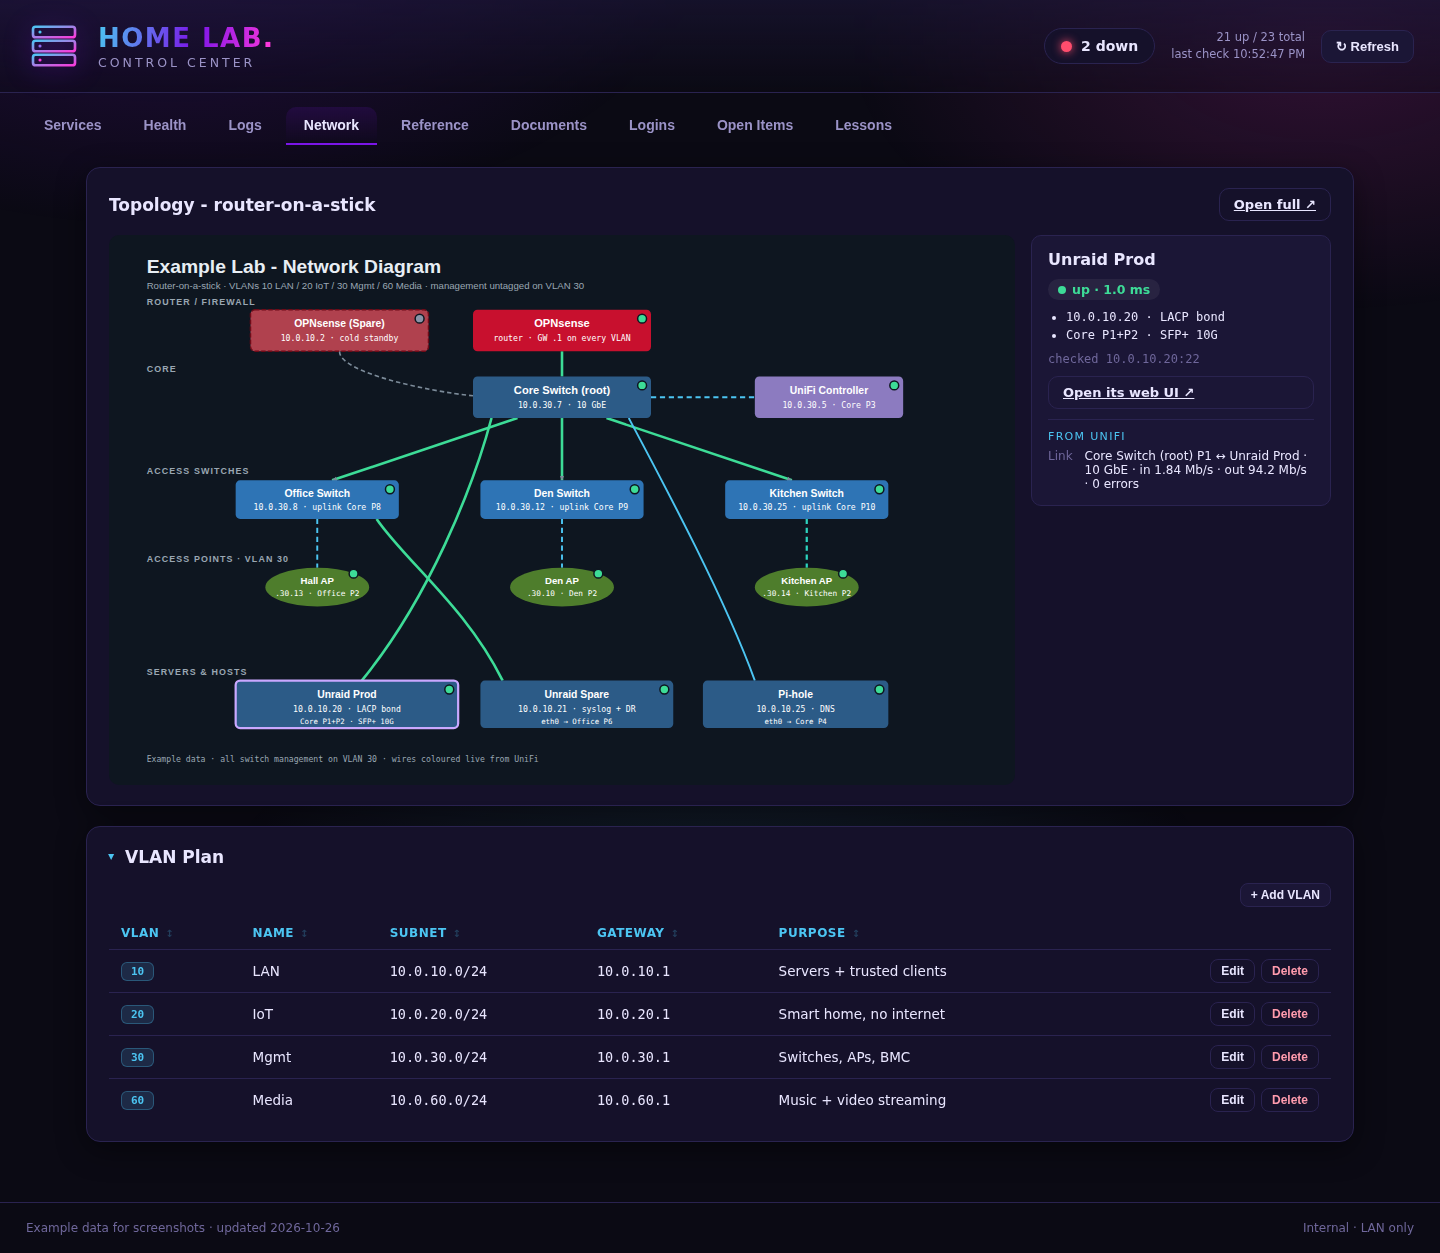
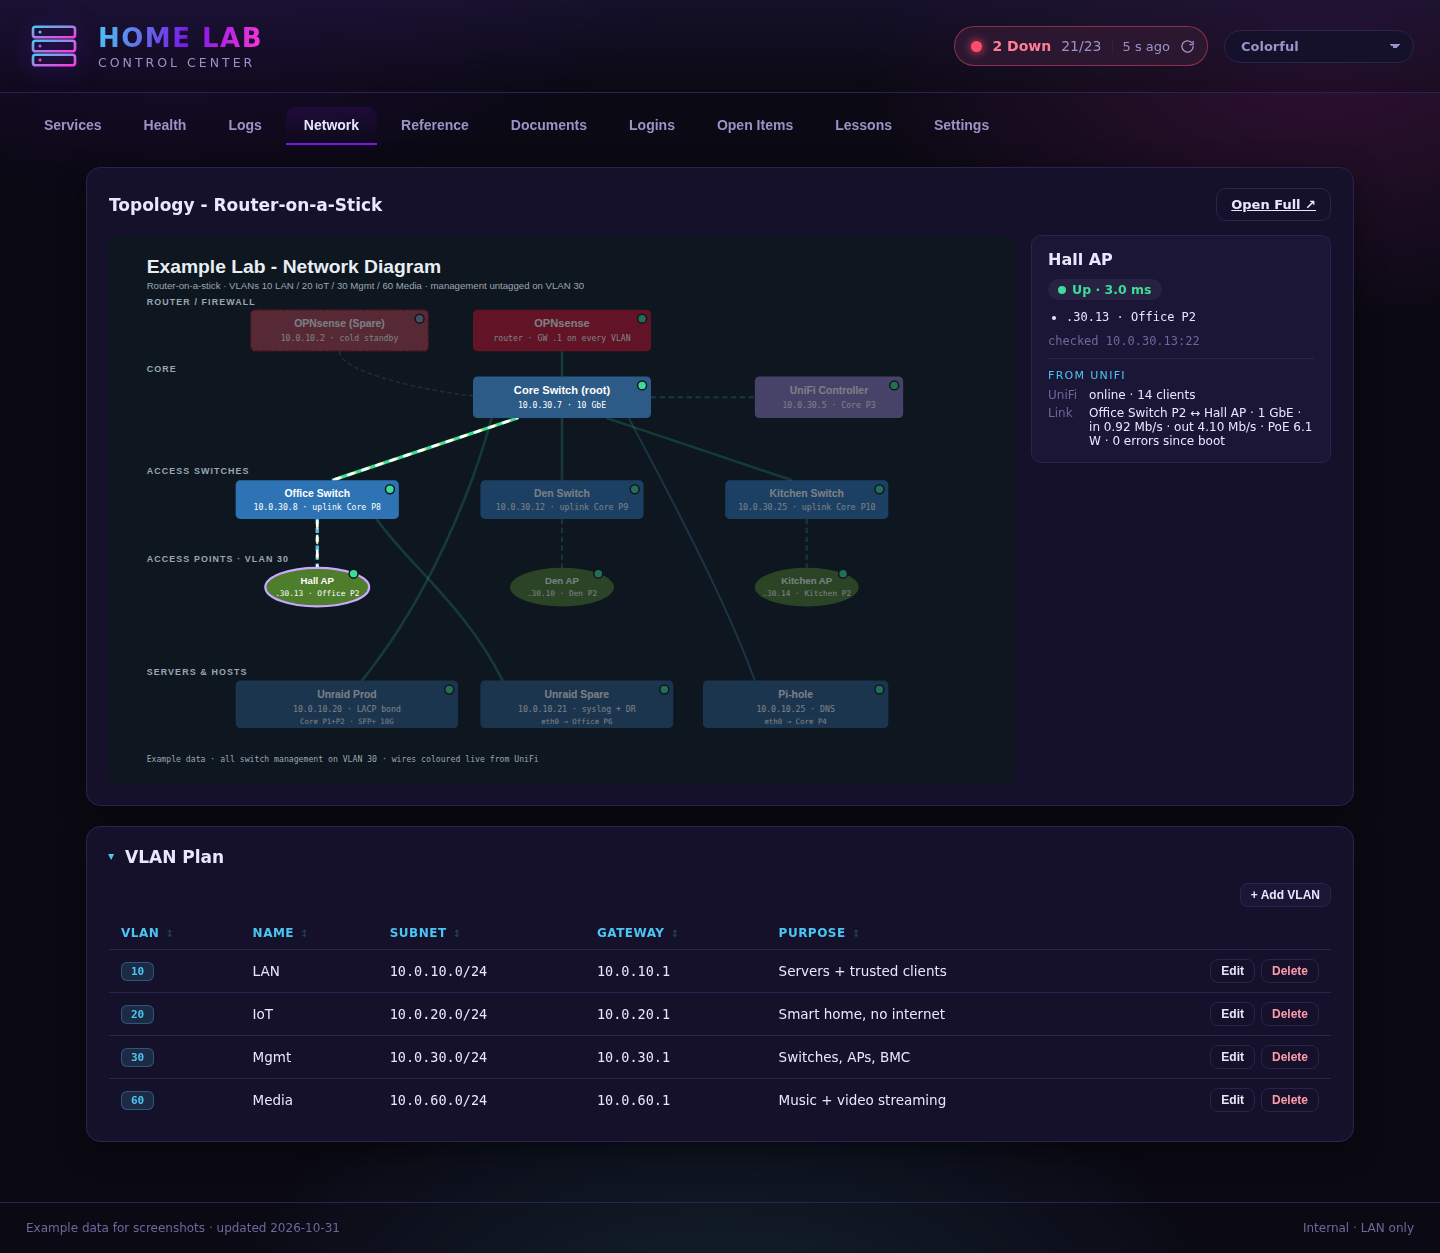
docs: Settings, alerts, traffic flow and bonded links

diff --git a/README.md b/README.md
@@ -1,6 +1,6 @@
 # Home Lab Control
 
-A single dashboard for running a home lab: what's up, what broke overnight, how the network is laid out, where every container lives, and how to get back in when something goes wrong.
+A single dashboard for running a home lab: what's up, what broke overnight, how the network is laid out and how busy each link is, where every container lives, who gets told when something fails, and how to get back in when something goes wrong.
 
 It runs on the lab's own Unraid server, stays on the LAN behind basic auth, and has no cloud dependency.
 
@@ -12,9 +12,9 @@ It runs on the lab's own Unraid server, stays on the LAN behind basic auth, and 
 ## What It Does
 
 ### Services
-Every service in the lab gets a tile, grouped by role (Core, Media, Smart Home, AI, Git & CI, Handoff). Each tile shows whether the service is up, refreshes every 30 seconds, and opens the service's web UI on click. The header keeps a running count ("21 up / 23 total") so a problem is visible from any tab.
+Every service in the lab gets a tile, grouped by role (Core, Media, Smart Home, AI, Git & CI, Handoff). Each tile shows whether the service is up, refreshes every 30 seconds, and opens the service's web UI on click. The status at the top right keeps a running count so a problem is visible from any tab. Hovering it lists what is down, why, and for how long, and a click checks again.
 
-Each group folds into a section, and a closed section's header still shows a live count, such as "2 down · 6 up". A section opens by itself while something in it is down and closes again once it recovers. Anything you open or close stays that way in your browser, and Expand all / Collapse all handle every section at once.
+Each group folds into a section, and a closed section's header still shows a live count, such as "2 down · 6 up". A section opens by itself while something in it is down and closes again once it recovers. Anything you open or close stays that way in your browser. One **Expand All / Collapse All** toggle at the top of the tab handles every section at once, and Health, Reference and Settings have the same toggle.
 
 Some tiles show live stats as well as up or down. The Ollama tile shows which model is loaded and how much of it sits on the GPU. The GPU tile shows load, VRAM, temperature and power.
 
@@ -37,9 +37,27 @@ The diagram is live:
 - **Status on every box.** A dot shows whether each device answers: green up, red down, grey not checked yet. A cold-standby box is marked as standby, not as an outage.
 - **Click for details.** Clicking a box (or tabbing to it and pressing Enter) opens a side panel with its live status, its address and ports, and a link to its web UI.
 - **Wires from UniFi.** Each cable is coloured from its switch port on the UniFi controller: green 10 GbE, teal 2.5 GbE, cyan 1 GbE, amber slower, red link down. Hovering a wire shows both ends, the link speed, current traffic, PoE draw and errors. The panel adds what UniFi knows about the device: clients on an access point, ports up on a switch, and the mesh parent of a wireless extender.
-- **Honest when data is missing.** If the controller can't be read, the wires stay as drawn and a note under the diagram says why. If a reading goes stale, the last good one stays on screen, marked stale.
+- **Traffic flow.** Selecting a box lights its path toward the router, hop by hop through switches and wireless mesh links, and dims everything else. Dashes march along each lit cable, gold for upload and white for download, faster the busier the port. A new reading every 30 seconds only changes a stream's pace when the traffic really changes, so the dashes don't stutter on ordinary jitter.
+- **Bonded links.** A LACP bond shows the traffic of all its members, and turns dashed amber ("LACP 1 of 2 up, degraded") when one member drops.
+- **Honest when data is missing.** If the controller can't be read, the wires stay as drawn and a note under the diagram says why. If a reading goes stale, or the controller answers with nothing, the last good one stays on screen, marked stale. Error counts say "since boot", because that is what the switch counts.
 
 ![Network](screenshots/network.png)
+
+### Alerts
+The alerts that page the phone are set up from the dashboard's Settings tab, saved in Grafana and the same for everyone who opens the page:
+- **Where Alerts Go.** The email address alerts go to, with Send Test Email and Send Test Message buttons. The mail password stays on the server and never shows on the page. A Used By count says how many alerts actually route to email, so setting an address never looks like more than it is.
+- **Email Rules.** Your own alerts from the logs: pick a host, the text to match and the text to ignore, how many lines within 5 minutes, 15 minutes or 1 hour, how long to wait before repeating, and email, Telegram or both. Quiet Overnight holds a rule from 22:00 to 07:00. Before you save, the rule shows what it would have sent in the last 24 hours, so a noisy rule is caught before it fills the inbox.
+- **Built-in Alerts.** The alerts that already page Telegram, each with an Also Email switch. The columns show where Grafana actually sends each one, read back from Grafana, not what the page assumes.
+- **Daily Digest.** One morning email instead of many: what fired in the last 24 hours, what was held overnight, and what an Email Rule kept out of the inbox as below its limit. It can skip days when nothing happened, and As It Would Go Now previews the next one.
+
+![Alerts](screenshots/alerts.png)
+
+![Built-in Alerts and Daily Digest](screenshots/alerts-digest.png)
+
+### Settings
+Besides the alerts, Settings holds the per-browser choices: which tabs show in the top menu and which one the dashboard opens on, how the network flow animation behaves (follow the system's reduced-motion setting, always animate, or never), and how the status at the top right looks: one capsule, a ring with two lines, or quiet when healthy, with its count, time since the last check and how often it checks. A theme picker at the top right offers nine colour themes, and the network diagram keeps its own dark canvas and link colours in all of them.
+
+![Settings](screenshots/settings.png)
 
 ### Reference
 The lab's inventory, all of it editable in place:
@@ -98,7 +116,8 @@ How it works:
 
 - **Web:** a static page served by nginx, with no build step and no framework. Editable tables save straight back to the server.
 - **API:** a small Python service using only the standard library. It checks each service's status, serves and stores the editable tables, and receives the daily health reports. The tables can only be read or changed through the dashboard itself.
-- **Link data:** the same service reads the UniFi controller every 30 seconds for each switch port's link state, speed and traffic, and each device's uplink.
+- **Link data:** the same service reads the UniFi controller every 30 seconds for each switch port's link state, speed, traffic and bond membership, and each device's uplink. A slow controller never holds up other readers.
+- **Alerts:** Grafana alerting sends to Telegram and email. The dashboard edits contact points, rules and routes through Grafana's API, and the Daily Digest is built by the API service from Grafana's alert history and Loki.
 - **GPU stats:** a separate small service reads the GPU through the NVIDIA driver, so the main API needs no GPU access.
 - **Logs:** Grafana Alloy ships syslog to Loki, and Grafana shows it inside the Logs tab.
 - **AI:** Ollama on a local GPU answers AI Explain requests. The API reads evidence from Loki and sends the model only scrubbed text.
@@ -112,5 +131,6 @@ How it works:
 - LAN only, behind basic auth. Nothing is exposed to the internet.
 - No secrets live in the dashboard or its repository. Passwords stay in the vault.
 - The editable tables, AI Explain and the link data accept requests only from the dashboard's web server.
+- The alert mail password is a file on the server, read by Grafana and the API service; the page only ever shows the sender and the server.
 - UniFi is read with a View Only local account. Its login lives in a file on the server, never in the repository.
 - Health reports are accepted only from the lab's own servers, and each server can update only its own card.
